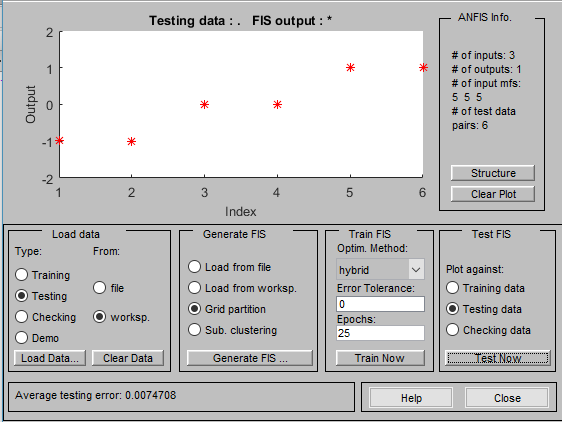
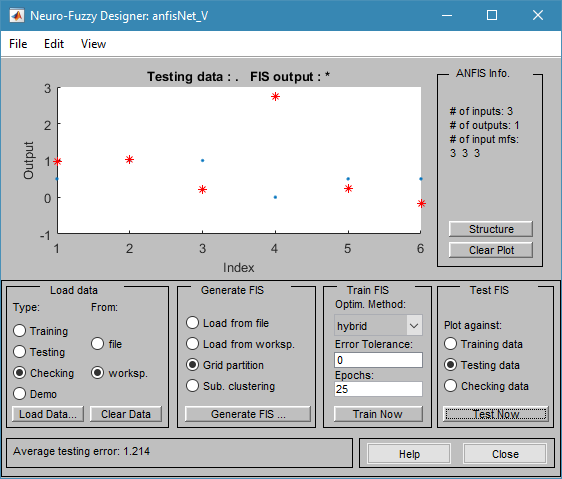
Anfis study completed

diff --git a/copyToWorkspace_SvD.m b/copyToWorkspace_SvD.m
@@ -1,15 +1,16 @@
 trainTable = load('features_dataset/dati_buoni/trainingSet_SvD_H.mat');
 normalizedStd = normalize(trainTable.table.phase_std);
 
-trainData = zeros(50, 2);
-trainData(1:25, 1) = normalizedStd.values(1:25);
-trainData(26:50, 1) = normalizedStd.values(36:60);
-trainData(1:25, 2) = trainTable.table.out_isStatic(1:25);
-trainData(26:50, 2) = trainTable.table.out_isStatic(36:60);
+compoundData = zeros(60, 2);
+compoundData(:, 1) = normalizedStd.values;
+compoundData(1:30, 2) = trainTable.table.out_isStatic(1:30);
+compoundData(31:60, 2) = trainTable.table.out_isStatic(31:60);
 
-testingData = zeros(10, 2);
-testingData(:, 1) = normalizedStd.values(26:35);
-testingData(:, 2) = trainTable.table.out_isStatic(26:35);
+permData = compoundData(randperm(60), :);
+
+trainData = permData(1:50, :);
+testData = permData(51:55, :);
+checkData = permData(56:60, :);
 
 %trainInput = normalizedStd.values;
 %trainOutput = [trainTable.table.out_isStatic];

diff --git a/copyToWorkspace_dyn.m b/copyToWorkspace_dyn.m
@@ -1,4 +1,4 @@
-trainTable = load('features_dataset/dati_buoni/trainingSlicedSet_V.mat');
+trainTable = load('features_dataset/dati_buoni/trainingSlicedSet_H.mat');
 
 
 trainInput = [trainTable.table.power_integral];
